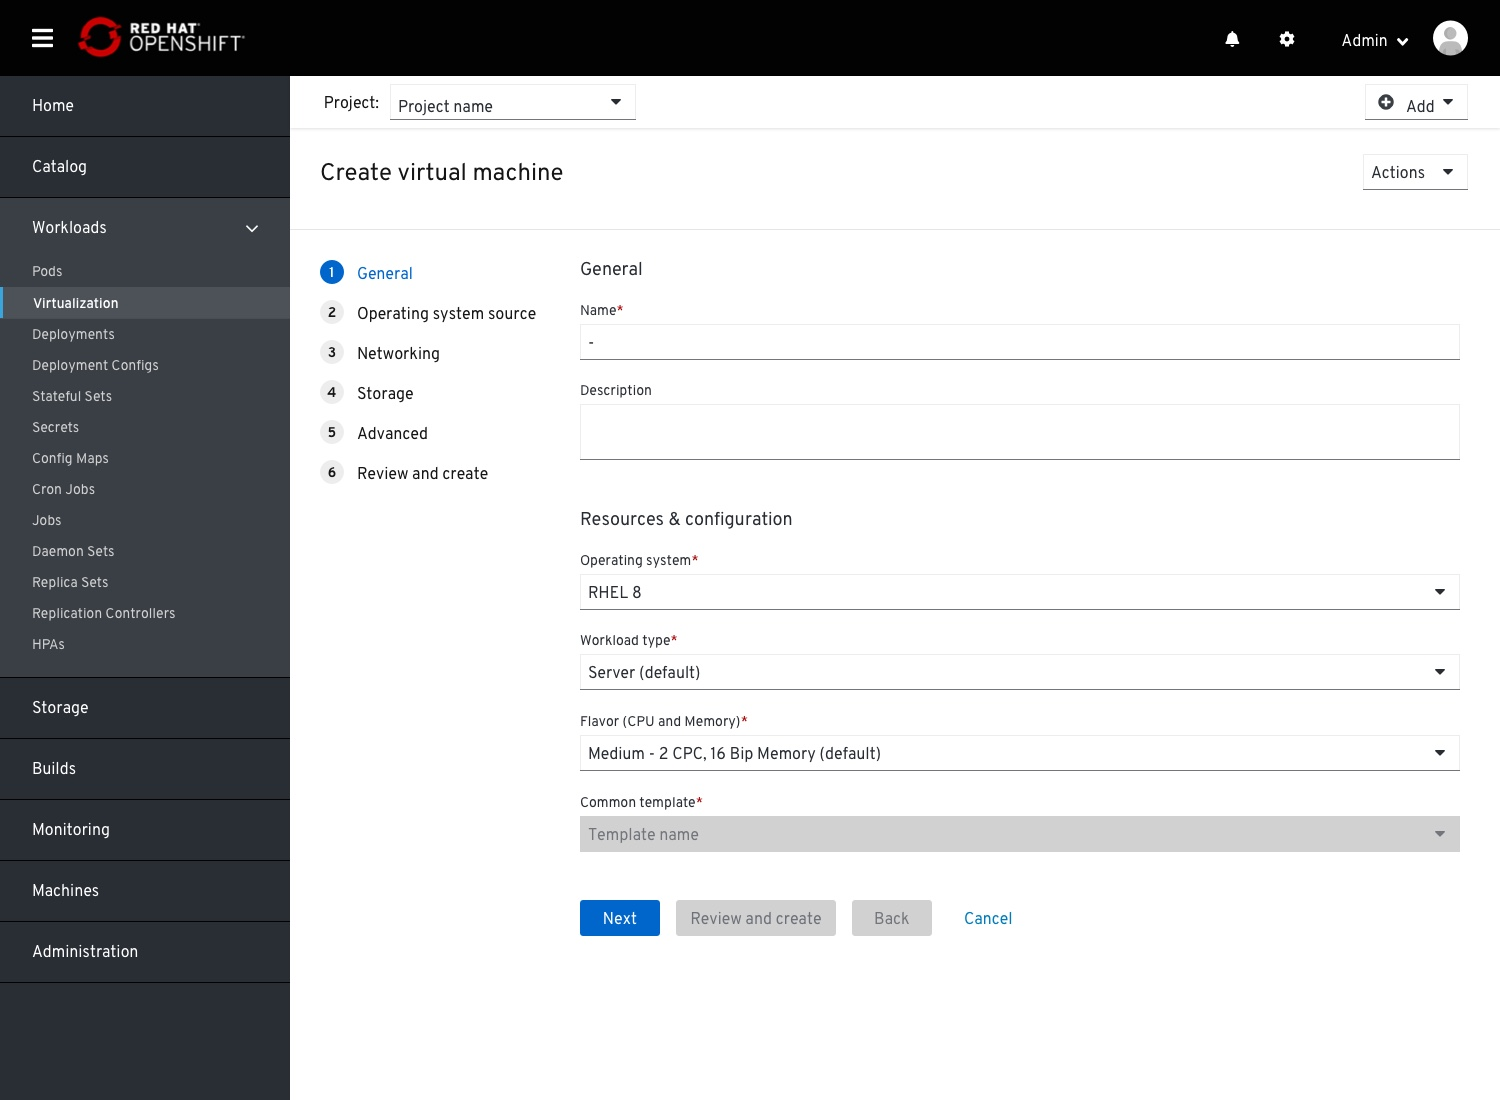
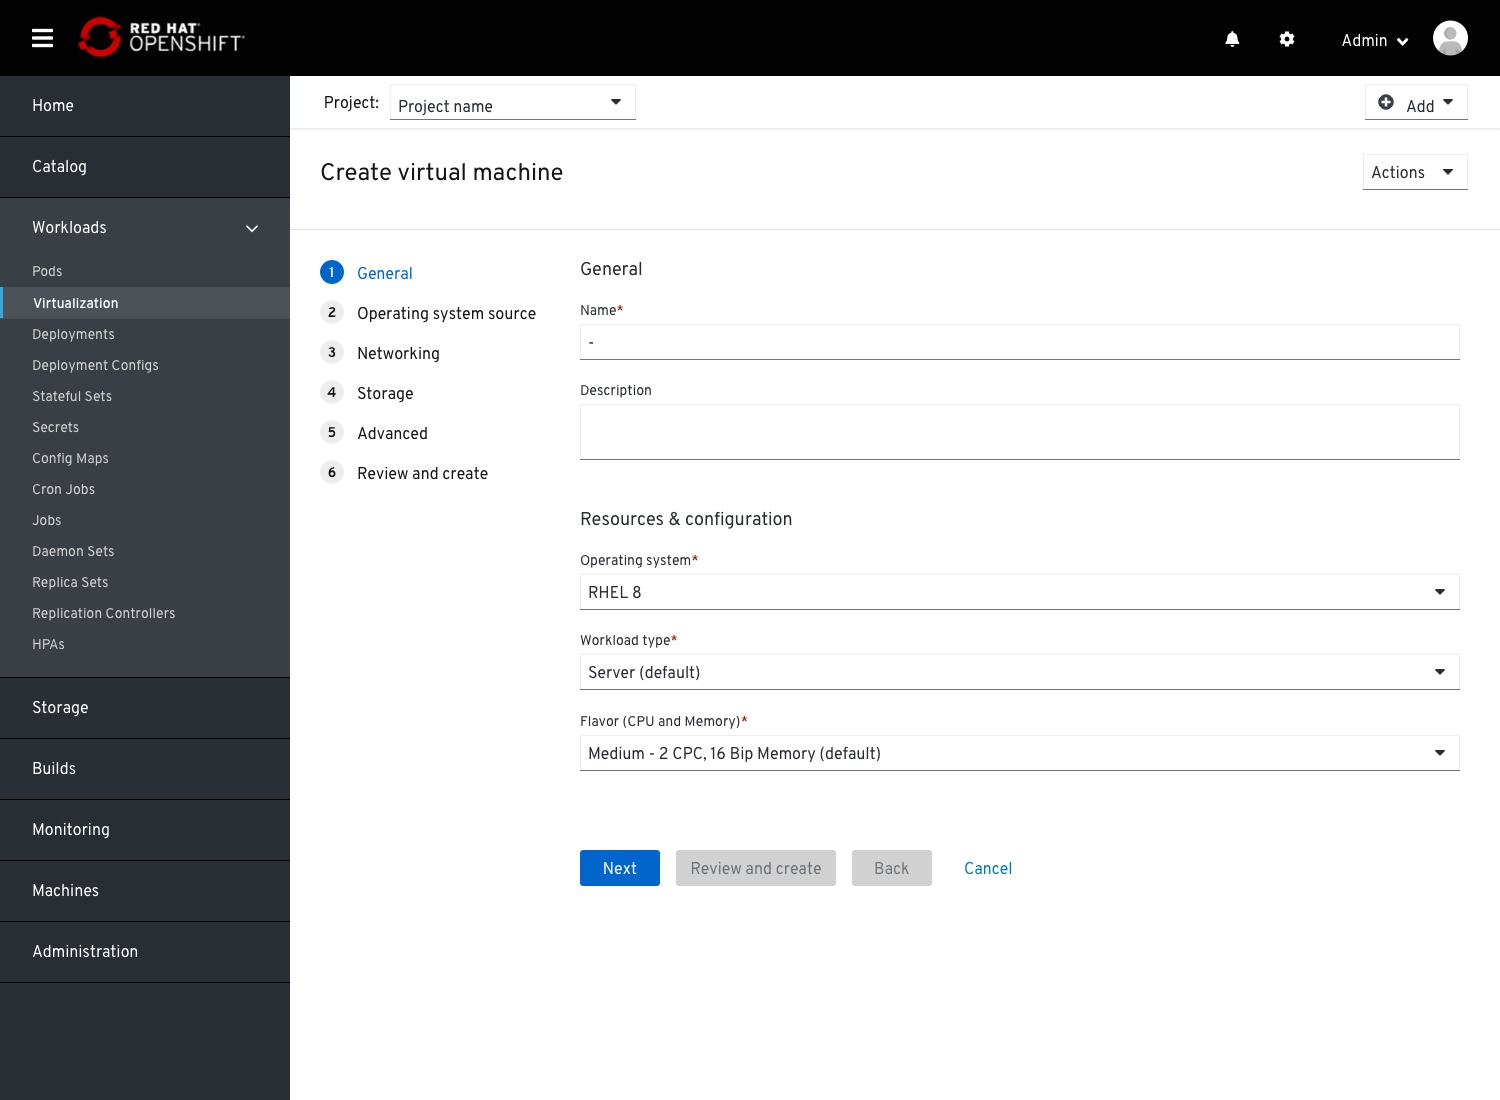
removing common templates from the UI

Changed region(s): [[0.368, 0.7109, 0.9813, 0.8655]]

diff --git a/designs/virtualization/4.x/create-vm-dropdowns/create-vm-dropdowns.md b/designs/virtualization/4.x/create-vm-dropdowns/create-vm-dropdowns.md
@@ -24,7 +24,6 @@ Any OS image source related fields are mofed to the next step.
 - 'Operating system'
 - 'Workload type' (previously Workload profile)
 - 'Flavor (CPU and Memory)' (previously only 'flavor')
-- 'Common template'
 
 
 ## General step
@@ -39,10 +38,6 @@ Server is the default
 ![Create VM - General - flavor](img/1-1-2.jpg)
 Flavor options.
 Medium is the default
-
-On selecting all the above, the Common tempate field should be filtered to one option, therefor be locked.
-However, in some cases, there will be more than one option, so this field should be available. 
-
 
 ## Operating system source step (new)
 
